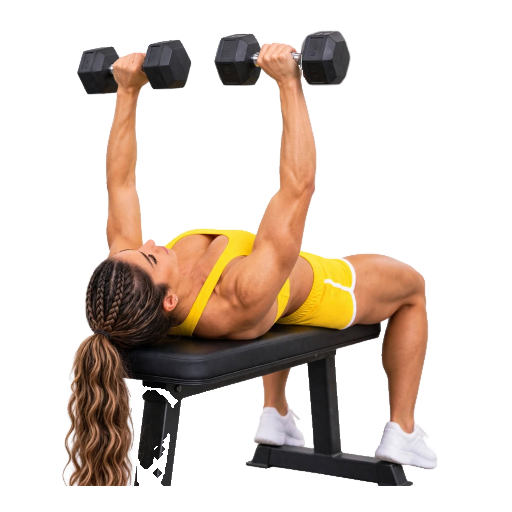
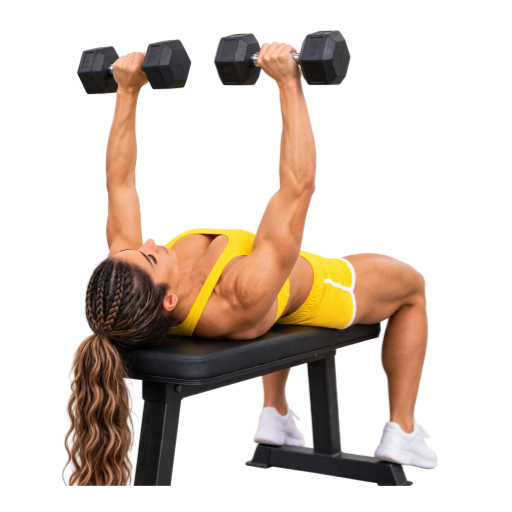
1.8.59 : icône du Développé couché haltères refaite depuis la photo d'origine
Claude-Session: https://claude.ai/code/session_01D2bERS9HLrYDfbmYJhTd1N

diff --git a/sw.js b/sw.js
@@ -4,7 +4,7 @@
 // APP_VERSION doit être incrémenté à chaque release (en même temps que
 // manifest.json) : le navigateur ne réinstalle le service worker que si
 // le contenu de ce fichier change.
-const APP_VERSION = '1.8.58';
+const APP_VERSION = '1.8.59';
 // 1.7.64 (co-auteur : Claude) : production (…/suivi-fitness/) et test (…/suivi-fitness/dev/) sont sur le même
 // domaine et partagent le stockage des caches : chaque version nomme ses caches d'après son dossier et ne
 // supprime que les siens (plus les anciens caches sans dossier, d'avant la 1.7.64).

diff --git a/CHANGELOG.md b/CHANGELOG.md
@@ -7,6 +7,12 @@ et ce projet respecte [Semantic Versioning](https://semver.org/spec/v2.0.0.html)
 
 ---
 
+## [1.8.59] - 2026-11-19
+### 🎨 Icône du Développé couché haltères refaite (co-auteur : Claude)
+- Refaite depuis la photo d'origine sur fond blanc : athlète détourée par le modèle ISNet, banc et haltères par leur couleur sombre, blanc mélangé au bord retiré ; calée sur le cadrage de l'icône précédente. Le pied gauche du banc n'a plus de trous blancs, et le disque droit de l'haltère est entier.
+
+---
+
 ## [1.8.58] - 2026-11-19
 ### 🧹 Progression : plus de liseré rouge autour du choix d'exercice (co-auteur : Claude)
 - Le menu déroulant des graphiques (Progression par exercice, Suivi cardio) n'affiche plus le contour rouge de focus quand on le touche.
